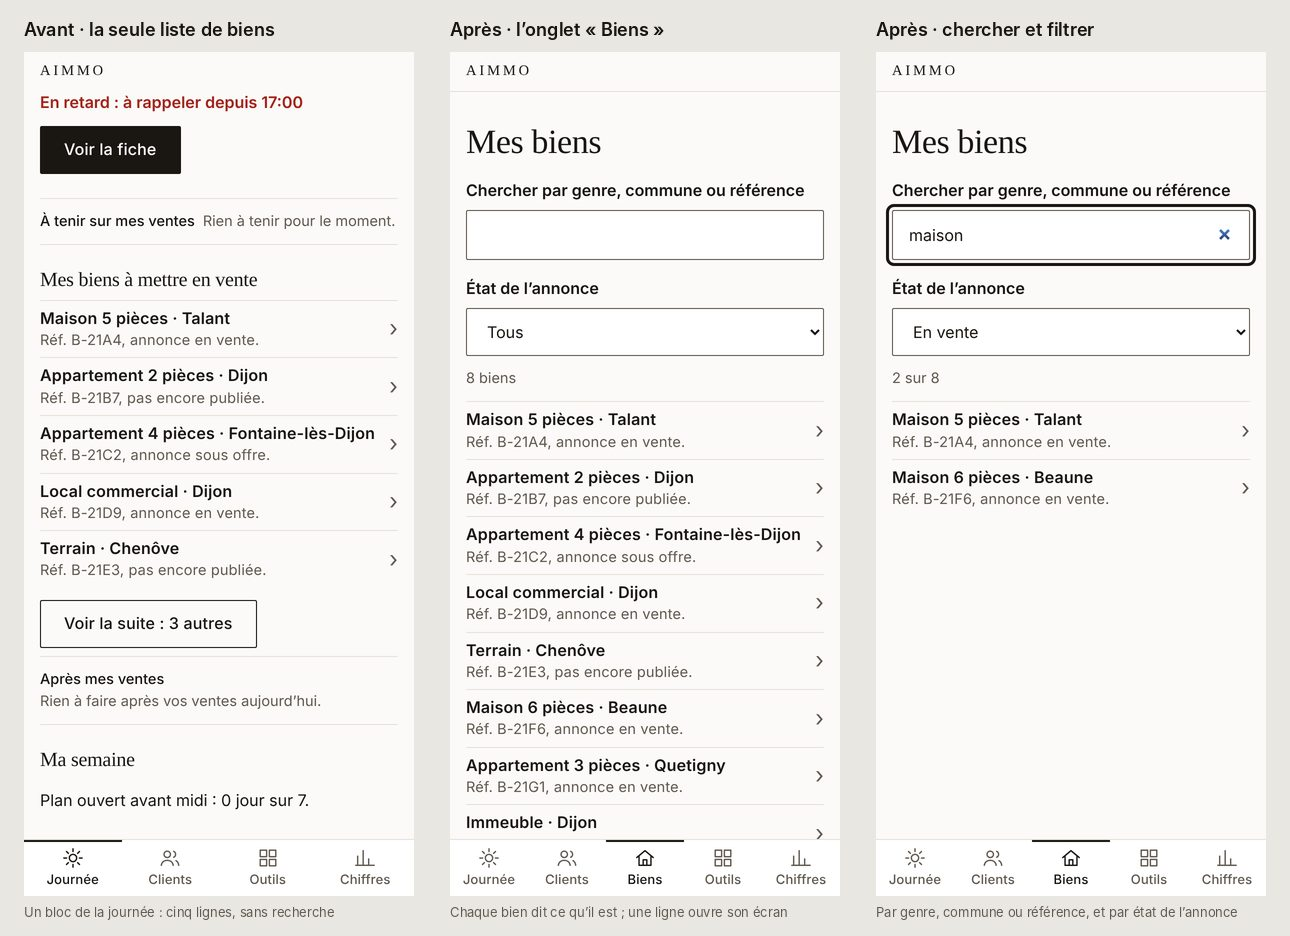
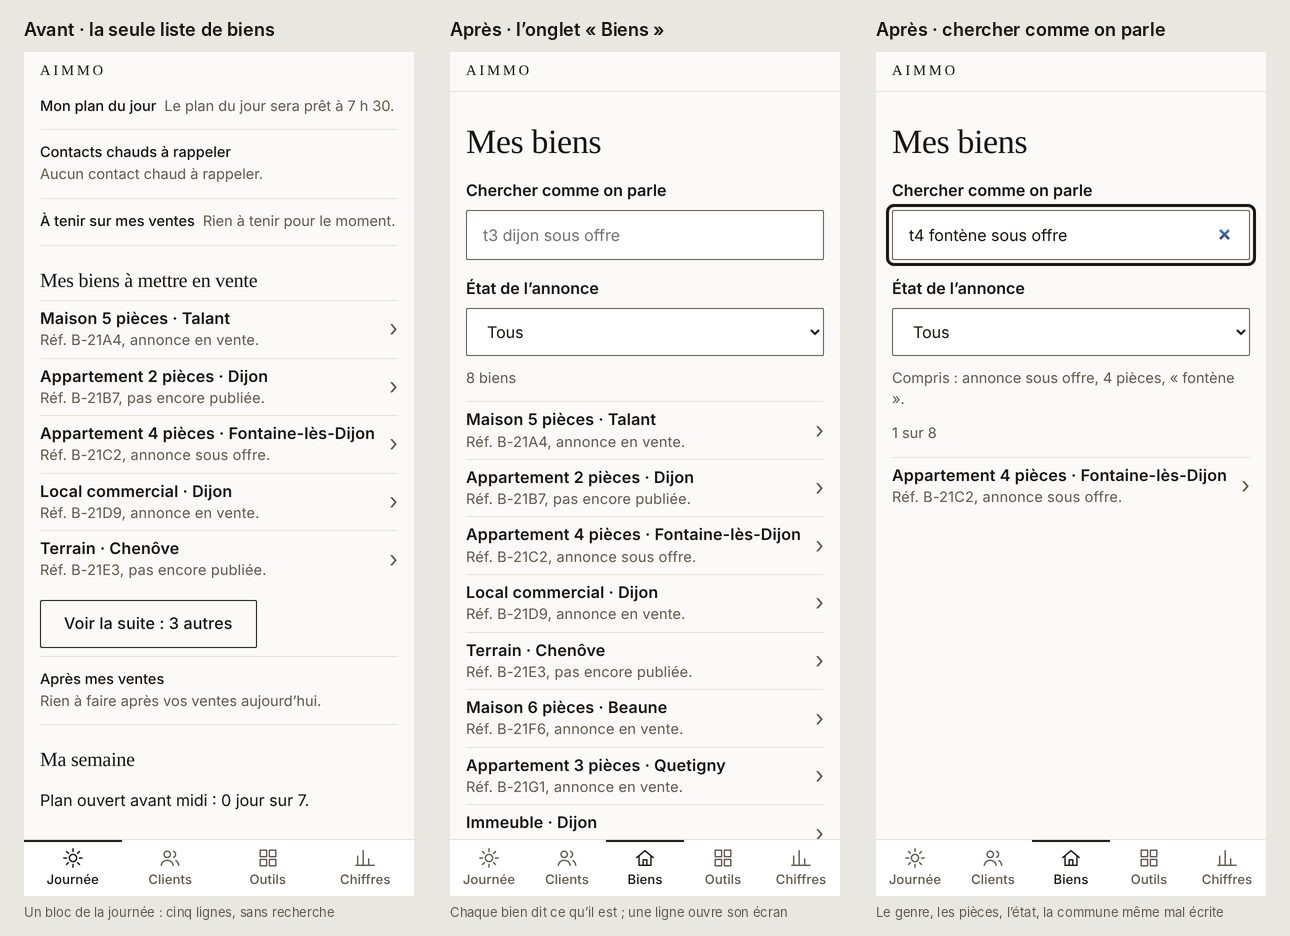
DS004 : chercher un bien comme on parle
Claude-Session: https://claude.ai/code/session_01GVx7uWFL6AUCKvjQq7fqnM

diff --git a/packages/api/app/mes-biens.ts b/packages/api/app/mes-biens.ts
@@ -1,3 +1,5 @@
+import { OREILLE_JS } from './oreille.ts';
+
 /**
  * L'écran « Biens » de l'application de l'agent (DS004), en morceaux posés dans `fichiers.ts` : son onglet, sa section
  * de page, son chargeur, et son script servi à part (`/app/mes-biens.js`), chargé à la première ouverture pour tenir le
@@ -5,9 +7,15 @@
  *
  * La liste est celle de `GET /v1/annonces` : pour un agent, ses biens seulement, ceux qui ne sont ni vendus, ni loués,
  * ni retirés [R16]. L'écran ne décide rien : il nomme chaque bien par ce qu'il est (DS023), cherche dans ce qu'il a
- * reçu, par genre, commune ou référence, et filtre par état de l'annonce. Une ligne ouvre l'écran du bien (DS013),
- * dont le « Retour » ramène à la liste. Il ne garde rien sur l'appareil ; la liste s'efface quand on quitte l'onglet,
- * et avec la session. Tout texte reçu est posé avec `textContent`.
+ * reçu, et filtre par état de l'annonce. Une ligne ouvre l'écran du bien (DS013), dont le « Retour » ramène à la
+ * liste. Il ne garde rien sur l'appareil ; la liste s'efface quand on quitte l'onglet, et avec la session. Tout texte
+ * reçu est posé avec `textContent`.
+ *
+ * Jamais vu · chercher comme on parle. L'agent tape, ou dicte, « t4 fontaine sous offre » : la recherche comprend le
+ * genre (maison, appart, terrain, immeuble, local, murs, fonds), les pièces (t3, f3, 3p, 3 pièces, studio), l'état de
+ * l'annonce (en vente, sous offre, pas publiée, publiée, vendu, retirée), et prend le reste pour la commune ou la
+ * référence, la commune même « à l'oreille » (`oreille.ts`). Elle écrit ce qu'elle a compris, sous le champ. Rien n'est
+ * deviné ni envoyé : des mots fixes, lus dans l'ordre, dans la liste déjà reçue.
  */
 
 /** L'onglet, entre les clients et les outils. */
@@ -41,14 +49,66 @@ export const MES_BIENS_SCRIPT = `'use strict';
 globalThis.AIMMO_MES_BIENS = function (t) {
   var $ = t.$, el = t.el, clear = t.clear;
   var ID = /^[A-Za-z0-9_-]{1,64}$/, STEP = 50;
-  var all = [], shown = STEP, query = '', only = '', list = null, count = null;
+  var all = [], shown = STEP, query = '', only = '', list = null, count = null, understood = null;
   /* Chercher sans tenir compte des accents ni des capitales : « fontaine » trouve « Fontaine-lès-Dijon ». */
   function plain(s) { return String(s || '').normalize('NFD').replace(/[\\u0300-\\u036f]/g, '').toLowerCase(); }
+${OREILLE_JS}
   /* L'état qui sert au filtre : celui de l'annonce, ou « aucune » tant qu'elle n'est pas publiée. */
   function stateOf(b) { return b.state ? String(b.state) : 'aucune'; }
   function stateName(s) {
     var said = s === 'aucune' ? 'pas encore publiée' : t.states[s] || 'publiée';
     return said.charAt(0).toUpperCase() + said.slice(1);
+  }
+  /*
+   * Jamais vu · chercher comme on parle : « t4 fontaine sous offre ». Des mots fixes, lus dans cet ordre ; ce qui
+   * reste est pris pour la commune ou la référence. « said » garde ce qui a été compris, pour l'écrire sous le champ.
+   */
+  var KINDS = { land: 'terrain', building: 'immeuble', commercial: 'local commercial', business_walls: 'murs commerciaux', business: 'fonds de commerce' };
+  var SKIP = /^(?:a|au|aux|de|du|des|d|le|la|les|l|un|une|en|et|ou|avec|sur|dans|pour|bien|biens|annonce|annonces|piece|pieces)$/;
+  function understand(typed) {
+    var q = ' ' + plain(typed).replace(/[^a-z0-9-]+/g, ' ').trim() + ' ', want = { words: [], said: [] };
+    function take(re, act) {
+      var m = re.exec(q);
+      if (!m) return;
+      q = q.replace(m[0], ' ');
+      act(m);
+    }
+    function state(code, said) { return function () { want.state = code; want.said.push(said); }; }
+    take(/ (?:pas encore|pas|non) publiee?s? | a publier | sans annonce /, state('aucune', 'pas encore publiée'));
+    take(/ sous offre /, state('sous_offre', 'annonce sous offre'));
+    take(/ en vente /, state('en_vente', 'annonce en vente'));
+    take(/ vendue?s? /, state('vendu', 'vendu'));
+    take(/ retiree?s? (?:de la vente )?/, state('retiree', 'retiré de la vente'));
+    take(/ publiee?s? | en ligne /, state('publiee', 'annonce publiée'));
+    function rooms(n) { want.rooms = n; want.said.push(n + (n > 1 ? ' pièces' : ' pièce')); }
+    take(/ studios? /, function () { rooms(1); });
+    take(/ [tf] ?([1-9]) /, function (m) { rooms(Number(m[1])); });
+    take(/ ([1-9]) ?(?:p|pieces?|pcs?) /, function (m) { rooms(Number(m[1])); });
+    take(/ maisons? /, function () { want.dwelling = 'house'; want.said.push('maison'); });
+    take(/ app(?:artement|art|t)s? /, function () { want.dwelling = 'apartment'; want.said.push('appartement'); });
+    function kind(code) { return function () { want.kind = code; want.said.push(KINDS[code]); }; }
+    take(/ terrains? /, kind('land'));
+    take(/ immeubles? /, kind('building'));
+    take(/ loca(?:l|ux)(?: commerci(?:al|aux))? | commerces? /, kind('commercial'));
+    take(/ murs(?: commerciaux)? /, kind('business_walls'));
+    take(/ fonds(?: de commerce)? /, kind('business'));
+    q.split(' ').forEach(function (w) { if (w && !SKIP.test(w)) want.words.push(w); });
+    /* Pour le dire : chaque mot restant tel qu'il a été tapé, avec ses accents. */
+    var raw = String(typed).toLowerCase().split(/[^0-9a-zà-ÿœ-]+/);
+    want.typed = want.words.map(function (w) {
+      for (var i = 0; i < raw.length; i++) if (plain(raw[i]) === w) return raw[i];
+      return w;
+    });
+    return want;
+  }
+  function fits(b, want) {
+    if (want.state === 'aucune' ? b.state : want.state === 'publiee' ? !b.state : want.state && b.state !== want.state) return false;
+    if (want.rooms && !(b.kind === 'home' && b.rooms === want.rooms)) return false;
+    if (want.dwelling && !(b.kind === 'home' && b.dwelling === want.dwelling)) return false;
+    if (want.kind && b.kind !== want.kind) return false;
+    /* Le reste : dans le nom du bien ou sa référence, ou la commune telle qu'elle s'entend. */
+    var where = plain(t.name(b) + ' ' + b.reference), key = sound(b.city || '');
+    return want.words.every(function (w) { return where.indexOf(w) !== -1 || heardIn(key, w); });
   }
   function row(b) {
     var r = list.appendChild(el('li')).appendChild(t.button('', function () { t.openPlace(b.id, b.reference, t.name(b), b.state || '', true); }));
@@ -58,8 +118,8 @@ globalThis.AIMMO_MES_BIENS = function (t) {
     text.appendChild(el('span', t.state(b.reference, b.state), 'doux'));
   }
   function draw() {
-    var q = plain(query).trim();
-    var found = all.filter(function (b) { return (!only || stateOf(b) === only) && (!q || plain(t.name(b) + ' ' + b.reference).indexOf(q) !== -1); });
+    var want = understand(query);
+    var found = all.filter(function (b) { return (!only || stateOf(b) === only) && fits(b, want); });
     clear(list);
     found.slice(0, shown).forEach(row);
     if (found.length > shown) {
@@ -68,16 +128,19 @@ globalThis.AIMMO_MES_BIENS = function (t) {
       more.className = 'secondaire';
     }
     count.textContent = !all.length ? 'Aucun bien pour le moment.' : !found.length ? 'Aucun bien ne correspond.' : found.length < all.length ? found.length + ' sur ' + all.length : all.length + (all.length > 1 ? ' biens' : ' bien');
+    /* Ce que la recherche a compris, quand elle a reconnu un genre, des pièces ou un état : l'agent voit ce qui a filtré. */
+    understood.textContent = want.said.length ? 'Compris : ' + want.said.concat(want.typed.map(function (w) { return '« ' + w + ' »'; })).join(', ') + '.' : '';
   }
   function build() {
     var body = $('mes-biens-corps');
     clear(body);
-    var label = body.appendChild(el('label', 'Chercher par genre, commune ou référence'));
+    var label = body.appendChild(el('label', 'Chercher comme on parle'));
     label.setAttribute('for', 'mes-biens-chercher');
     var input = body.appendChild(el('input'));
     input.setAttribute('id', 'mes-biens-chercher');
     input.setAttribute('type', 'search');
     input.setAttribute('autocomplete', 'off');
+    input.setAttribute('placeholder', 't3 dijon sous offre');
     input.value = query;
     input.addEventListener('input', function () { query = input.value; shown = STEP; draw(); });
     /* Le filtre ne propose que les états que la liste contient ; un état choisi qui n'y est plus revient à « Tous ». */
@@ -96,6 +159,7 @@ globalThis.AIMMO_MES_BIENS = function (t) {
       pick.value = only;
       pick.addEventListener('change', function () { only = pick.value; shown = STEP; draw(); });
     }
+    understood = body.appendChild(el('p', '', 'doux'));
     count = body.appendChild(el('p', '', 'doux'));
     count.setAttribute('role', 'status');
     list = body.appendChild(el('ul', null, 'liste'));
@@ -116,7 +180,7 @@ globalThis.AIMMO_MES_BIENS = function (t) {
     });
   }
   /* Quitter l'onglet efface la liste ; la recherche et le filtre reviennent avec l'onglet, sauf à la fin de la session. */
-  function wipe(everything) { all = []; list = count = null; if (everything) { query = ''; only = ''; } }
+  function wipe(everything) { all = []; list = count = understood = null; if (everything) { query = ''; only = ''; } }
   return { open: open, wipe: wipe };
 };
 `;

diff --git a/packages/api/test/mes-biens-app.test.ts b/packages/api/test/mes-biens-app.test.ts
@@ -80,7 +80,9 @@ async function run(answers: Record<string, Answer | null> = {}) {
   const rows = () => list().children.filter((li) => li.children[0]?.className === 'secondaire rangee');
   const names = () => rows().map((li) => li.all().find((e) => e.tagName === 'strong')!.textContent);
   const notes = () => rows().map((li) => li.all().find((e) => e.className === 'doux')!.textContent);
-  const count = () => body().children.find((e) => e.tagName === 'p')!.textContent;
+  const count = () => body().children.find((e) => e.tagName === 'p' && e.attributes.role === 'status')!.textContent;
+  /** Ce que la recherche dit avoir compris, sous le champ. */
+  const understood = () => body().children.find((e) => e.tagName === 'p' && e.attributes.role !== 'status')!.textContent;
   const filter = () => body().all().find((e) => e.tagName === 'select');
   const type = async (text: string) => {
     const input = body().all().find((e) => e.tagName === 'input')!;
@@ -99,7 +101,7 @@ async function run(answers: Record<string, Answer | null> = {}) {
     onPop!({ state });
     await settle();
   };
-  return { els, calls, table, states, storage, click, body, list, rows, names, notes, count, filter, type, choose, reads, scripts, pop };
+  return { els, calls, table, states, storage, click, body, list, rows, names, notes, count, understood, filter, type, choose, reads, scripts, pop };
 }
 
 describe('DS004 · l’agent a la liste de ses biens, y cherche et la filtre', () => {
@@ -141,15 +143,16 @@ describe('DS004 · l’agent a la liste de ses biens, y cherche et la filtre', (
     expect(a.els['mes-biens']!.hidden).toBe(false);
   });
 
-  it('chercher par genre, commune ou référence, sans accents ni capitales ; filtrer par état de l’annonce ; les deux reviennent avec l’onglet', async () => {
+  it('chercher par commune ou référence, sans accents ni capitales ; filtrer par état de l’annonce ; les deux reviennent avec l’onglet', async () => {
     const a = await run();
     await a.click(a.els['mes-biens-ouvrir']!);
     const reads = a.reads();
-    await a.type('fontaine les');
-    expect(a.names()).toEqual([]);
     await a.type('fontaine-les');
     expect(a.names()).toEqual(['Appartement 4 pièces · Fontaine-lès-Dijon']);
     expect(a.count()).toBe('1 sur 5');
+    // Un petit mot ne compte pas : « fontaine les dijon » se cherche comme « fontaine dijon ».
+    await a.type('fontaine les dijon');
+    expect(a.names()).toEqual(['Appartement 4 pièces · Fontaine-lès-Dijon']);
     await a.type('DIJON');
     expect(a.names()).toEqual(['Appartement 1 pièce · Dijon', 'Appartement 4 pièces · Fontaine-lès-Dijon', 'Local commercial · Dijon']);
     await a.type('ref-5');
@@ -179,6 +182,57 @@ describe('DS004 · l’agent a la liste de ses biens, y cherche et la filtre', (
     await a.click(a.els.sortir!);
     expect(a.body().children).toHaveLength(0);
     expect(a.storage.get('aimmo.cle')).toBeUndefined();
+  });
+
+  it('Jamais vu · chercher comme on parle : le genre, les pièces et l’état de l’annonce sont compris, le reste est la commune ou la référence ; l’écran dit ce qu’il a compris', async () => {
+    const a = await run();
+    await a.click(a.els['mes-biens-ouvrir']!);
+    const reads = a.reads();
+    const M5 = 'Maison 5 pièces · Talant', A1 = 'Appartement 1 pièce · Dijon', A4 = 'Appartement 4 pièces · Fontaine-lès-Dijon', LOCAL = 'Local commercial · Dijon', LAND = 'Terrain';
+    for (const [typed, found, said] of [
+      ['t4 fontaine sous offre', [A4], 'Compris : annonce sous offre, 4 pièces, « fontaine ».'],
+      ['maison talant', [M5], 'Compris : maison, « talant ».'],
+      ['Maison 5 pièces à Talant', [M5], 'Compris : 5 pièces, maison, « talant ».'],
+      ['studio dijon', [A1], 'Compris : 1 pièce, « dijon ».'],
+      ['appart pas publié', [A1], 'Compris : pas encore publiée, appartement.'],
+      ['appartements', [A1, A4], 'Compris : appartement.'],
+      ['local commercial en vente', [LOCAL], 'Compris : annonce en vente, local commercial.'],
+      ['terrain', [LAND], 'Compris : terrain.'],
+      ['publiés', [M5, A4, LOCAL], 'Compris : annonce publiée.'],
+      ['f5', [M5], 'Compris : 5 pièces.'],
+      ['5p', [M5], 'Compris : 5 pièces.'],
+      ['T 4', [A4], 'Compris : 4 pièces.'],
+      ['maison dijon', [], 'Compris : maison, « dijon ».'],
+      ['dijon', [A1, A4, LOCAL], ''],
+      ['ref-4', [LOCAL], ''],
+    ] as const) {
+      await a.type(typed);
+      expect(a.names(), typed).toEqual(found);
+      expect(a.understood(), typed).toBe(said);
+      if (!found.length) expect(a.count(), typed).toBe('Aucun bien ne correspond.');
+    }
+    // Une commune entendue ou dictée se trouve aussi : « fontène » pour Fontaine, « talan » pour Talant.
+    await a.type('t4 fontène');
+    expect(a.names()).toEqual([A4]);
+    // Le mot est redit tel qu'il a été tapé, avec son accent.
+    expect(a.understood()).toBe('Compris : 4 pièces, « fontène ».');
+    await a.type('maison talan');
+    expect(a.names()).toEqual([M5]);
+    // Le filtre par état s'ajoute à ce qui est tapé ; les deux ensemble peuvent ne rien laisser, et le disent.
+    await a.type('appart');
+    await a.choose('sous_offre');
+    expect(a.names()).toEqual([A4]);
+    await a.type('appart pas publié');
+    expect(a.names()).toEqual([]);
+    expect(a.count()).toBe('Aucun bien ne correspond.');
+    // Rien ne part au serveur, et le champ donne un exemple de ce qu'il comprend.
+    expect(a.reads()).toBe(reads);
+    const input = a.body().all().find((e) => e.tagName === 'input')!;
+    expect(input.attributes.placeholder).toBe('t3 dijon sous offre');
+    expect(a.body().all().find((e) => e.tagName === 'label')!.textContent).toBe('Chercher comme on parle');
+    // Des mots fixes, lus dans la liste déjà reçue : ni envoi, ni devinette.
+    const search = MES_BIENS_SCRIPT.slice(MES_BIENS_SCRIPT.indexOf('function understand'), MES_BIENS_SCRIPT.indexOf('function row'));
+    expect(search).not.toMatch(/send\(|fetch|Math\.random/);
   });
 
   it('un seul état dans la liste : pas de filtre ; un état inconnu se dit « Publiée » ; une longue liste se déroule par cinquante', async () => {
@@ -262,7 +316,7 @@ describe('DS004 · l’agent a la liste de ses biens, y cherche et la filtre', (
   it('[R201] l’écran est servi à part, chargé une fois, hors de la coquille ; l’application tient son budget', async () => {
     expect(AGENT_APP_FILES['/app/mes-biens.js']).toBe(MES_BIENS_SCRIPT);
     expect(AGENT_APP_SHELL).not.toContain('/app/mes-biens.js');
-    expect(JS).not.toContain('Chercher par genre');
+    expect(JS).not.toContain('Chercher comme on parle');
     expect(budgetProblems({ html: '', js: MES_BIENS_SCRIPT }, BUDGETS.page)).toEqual([]);
     expect(budgetProblems({ html: HTML, css: CSS, js: JS }, BUDGETS.application)).toEqual([]);
     const a = await run();
@@ -326,11 +380,15 @@ describe('DS004 · dans Chromium', () => {
         expect(row.full).toBe(true);
       }
       expect(await page.evaluate(() => (globalThis as any).document.documentElement.scrollWidth > (globalThis as any).innerWidth)).toBe(false);
-      // Le champ et le filtre ont leur libellé ; choisir un état filtre aussitôt.
+      // Le champ et le filtre ont leur libellé ; choisir un état filtre aussitôt ; « t4 sous offre » se comprend.
       await page.getByLabel('État de l’annonce').selectOption('sous_offre');
       await page.waitForFunction(() => (globalThis as any).document.querySelectorAll('#mes-biens-liste > li').length === 1);
       await page.getByLabel('État de l’annonce').selectOption('');
-      await page.getByLabel('Chercher par genre, commune ou référence').fill('terrain');
+      await page.getByLabel('Chercher comme on parle').fill('t4 fontène sous offre');
+      await page.waitForFunction(() => (globalThis as any).document.querySelectorAll('#mes-biens-liste > li').length === 1);
+      expect(await page.evaluate(() => (globalThis as any).document.querySelector('#mes-biens-liste strong').textContent)).toBe('Appartement 4 pièces · Fontaine-lès-Dijon');
+      expect(await page.evaluate(() => [...(globalThis as any).document.querySelectorAll('#mes-biens-corps > p')].map((p: any) => p.textContent))).toEqual(['Compris : annonce sous offre, 4 pièces, « fontène ».', '1 sur 5']);
+      await page.getByLabel('Chercher comme on parle').fill('terrain');
       await page.waitForFunction(() => (globalThis as any).document.querySelectorAll('#mes-biens-liste > li').length === 1);
       // La ligne ouvre l'écran du bien ; « Retour » ramène à la liste, la recherche gardée.
       await page.click('#mes-biens-liste button.rangee');

diff --git a/docs/design/AUDIT.md b/docs/design/AUDIT.md
@@ -70,7 +70,7 @@ Chaque problème a son identifiant, sa gravité, sa catégorie et son effort (S 
 - Où : toute l'application
 - Preuve : un bien n'apparaît que dans « Mes biens à mettre en vente », plafonné à 200 lignes sans recherche. Une fois vendu, il n'est plus que dans « Mes ventes conclues ».
 - Solution : un onglet « Biens » : cartes avec photo, adresse, prix et état, recherche et filtres par état.
-- Suite : premier pas le 2026-11-27 : l'onglet « Biens », entre les clients et les outils. Il lit les biens de l'agent (`GET /v1/annonces`, les siens seulement, R16) ; chaque bien dit ce qu'il est, puis sa référence et l'état de son annonce (DS023) ; un champ cherche par genre, commune ou référence, sans accents ni capitales ; un filtre par état de l'annonce ne propose que les états présents ; une ligne ouvre l'écran du bien (DS013), dont le « Retour » ramène à la liste, recherche et filtre gardés. Cinquante lignes, puis la suite. L'écran est servi à part (`/app/mes-biens.js`), et ne garde rien sur l'appareil. Cinq onglets tiennent sur un téléphone de 320 px, chacun à la taille du doigt (mesuré dans Chromium). Restent, qui demandent une lecture nouvelle sous droits : la photo, l'adresse et le prix sur la ligne, les biens vendus, loués ou retirés (la lecture d'aujourd'hui les écarte), et plus de 200 biens. Avant et après : `captures/avant-apres/DS004-biens.jpg`.
+- Suite : premier pas le 2026-11-27 : l'onglet « Biens », entre les clients et les outils. Il lit les biens de l'agent (`GET /v1/annonces`, les siens seulement, R16) ; chaque bien dit ce qu'il est, puis sa référence et l'état de son annonce (DS023) ; un champ cherche comme on parle : « t4 fontaine sous offre » est compris (le genre, les pièces, l'état de l'annonce ; le reste est la commune ou la référence, la commune même « à l'oreille »), et l'écran écrit ce qu'il a compris ; ce sont des mots fixes lus dans la liste déjà reçue, rien n'est deviné ni envoyé ; un filtre par état de l'annonce ne propose que les états présents ; une ligne ouvre l'écran du bien (DS013), dont le « Retour » ramène à la liste, recherche et filtre gardés. Cinquante lignes, puis la suite. L'écran est servi à part (`/app/mes-biens.js`), et ne garde rien sur l'appareil. Cinq onglets tiennent sur un téléphone de 320 px, chacun à la taille du doigt (mesuré dans Chromium). Restent, qui demandent une lecture nouvelle sous droits : la photo, l'adresse et le prix sur la ligne, les biens vendus, loués ou retirés (la lecture d'aujourd'hui les écarte), et plus de 200 biens. Avant et après : `captures/avant-apres/DS004-biens.jpg`.
 
 #### DS005 · Aucune navigation permanente
 - Gravité : majeur · Catégorie : navigation · Effort : L

diff --git a/docs/design/README.md b/docs/design/README.md
@@ -33,7 +33,7 @@ L'agent a trois onglets, toujours là : Journée, Outils, Chiffres (`<nav id="on
 - L'onglet « Clients » (`packages/api/app/clients.ts`, servi à part) liste les clients de l'agent, le dernier échange d'abord, avec un champ pour chercher par nom, exactement ou « à l'oreille » (`packages/api/app/oreille.ts` : `sound`, `heardIn`), pour un nom entendu ou dicté. Une ligne est une rangée entière à toucher. La liste s'efface quand on quitte l'onglet et avec la session ; rien n'est gardé sur l'appareil.
 - La fiche d'un client (`packages/api/app/fiche.ts`, servie à part) ouvre sur l'essentiel : une phrase (projets, dernier message), l'appel ou la raison qui le ferme, les gestes d'appel, les rappels à faire. Le reste tient en quatre parties, une seule montrée (`.periodes`, `aria-pressed`) : Fil, Projets, Biens, Accords. Un nouveau bloc de la fiche se pose dans l'une d'elles, jamais en tête. Un formulaire ne s'ouvre qu'au geste (`<details>`, son titre en `<summary>`). Sur la fiche, « Appeler » est le seul bouton plein : tout autre geste est filaire (`quiet`, `accordButton`). Aucun lien `sms:` ni `mailto:` : un message ne part que par le contrôle central des envois.
 - Un écran servi à part passe par `withTool` : le script n'est demandé qu'une fois, et pendant qu'il arrive le dernier geste gagne. Dans les essais, le faux document charge de lui-même la fiche (`FakeElement.served`).
-- L'onglet « Biens » (`packages/api/app/mes-biens.ts`, servi à part) liste les biens de l'agent, avec un champ pour chercher par genre, commune ou référence, et un filtre par état de l'annonce. Une ligne est une rangée entière à toucher, et ouvre l'écran du bien. La liste s'efface quand on quitte l'onglet et avec la session ; la recherche et le filtre reviennent avec l'onglet. Un nouvel onglet de l'agent suit ce modèle : une section dans la page, un script servi à part par `withTool`, une entrée dans `ROOTS`, et son retour dans `home`.
+- L'onglet « Biens » (`packages/api/app/mes-biens.ts`, servi à part) liste les biens de l'agent, avec un champ où chercher comme on parle (« t3 dijon sous offre » : `understand`, `fits`, et ce qui a été compris écrit dessous), et un filtre par état de l'annonce. Une ligne est une rangée entière à toucher, et ouvre l'écran du bien. La liste s'efface quand on quitte l'onglet et avec la session ; la recherche et le filtre reviennent avec l'onglet. Un nouvel onglet de l'agent suit ce modèle : une section dans la page, un script servi à part par `withTool`, une entrée dans `ROOTS`, et son retour dans `home`.
 
 ## Ajouter un écran
 
